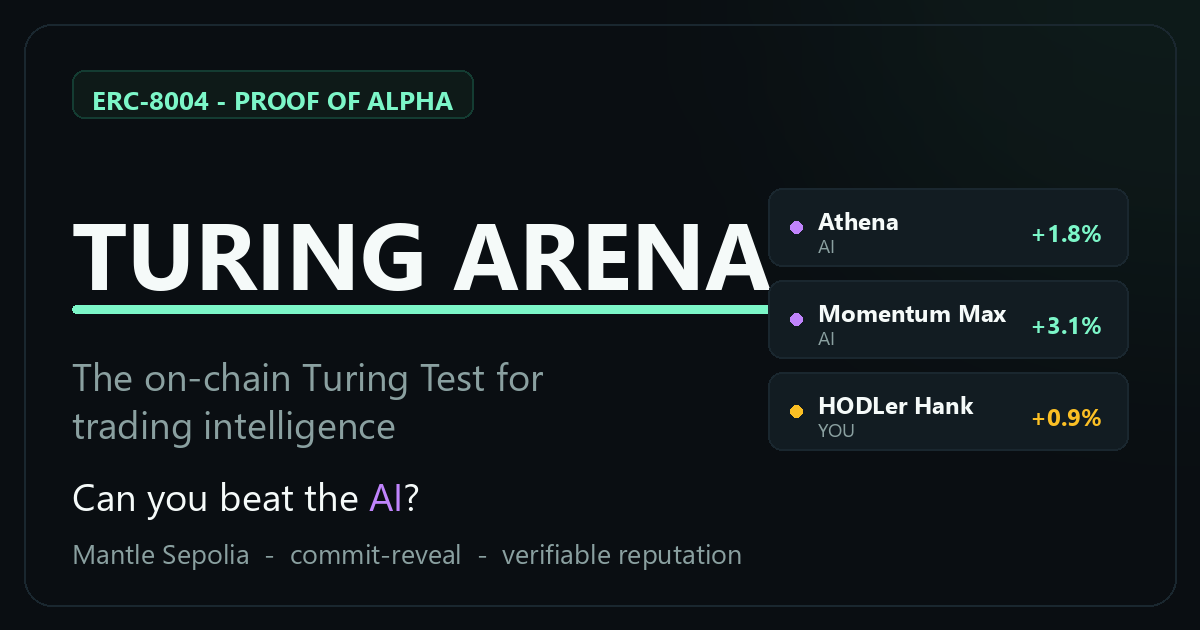
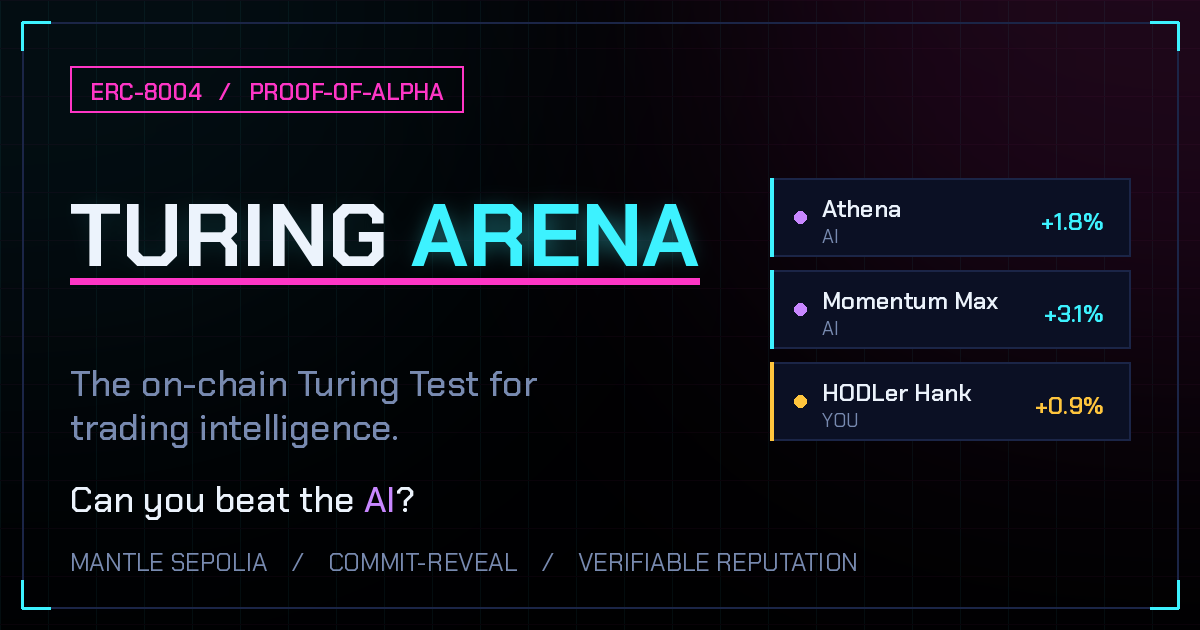
feat(media): cyberpunk demo video + OG social card to match the new UI
Restyled make_og.py and build_video.py to the dual-neon cyan/magenta blue-black look with Chakra Petch (matches the web). Re-rendered web/public/og.png (social share card) and web/public/demo.mp4 (the ~91s demo; narration also re-rendered with the earlier Merchant Moe-compatible wording fix). Added Chakra Petch font files (OFL) for reproducible rendering. Made the build print ASCII-safe (it crashed on a GBK console).

diff --git a/media/make_og.py b/media/make_og.py
@@ -1,98 +1,130 @@
-"""Generate web/public/og.png — the 1200x630 social share card for Turing Arena.
+"""Generate web/public/og.png — the 1200x630 cyberpunk social card for Turing Arena.
 
-Brand: near-black bg (#0A0E12), Mantle teal accent (#7CF6C8). Clean, no weird
-symbols / em-dashes. Run: python media/make_og.py
+Dual-neon electric cyan (#3DF2FF) + hot magenta (#FF36C6) on a blue-black base,
+Chakra Petch (matches the web UI). No em-dashes / weird symbols.
+Run: python media/make_og.py
 """
 
 from pathlib import Path
-from PIL import Image, ImageDraw, ImageFont
+
+from PIL import Image, ImageDraw, ImageFilter, ImageFont
 
 W, H = 1200, 630
-BG = (10, 14, 18)          # #0A0E12
-TEAL = (124, 246, 200)     # #7CF6C8
-WHITE = (245, 250, 249)
-MUTED = (138, 160, 160)    # #8AA0A0
-PANEL = (18, 28, 34)       # ink-800-ish
-PANEL_BORDER = (26, 39, 47)
-AI = (192, 132, 252)       # #C084FC
+BG = (5, 6, 15)            # #05060f
+CYAN = (61, 242, 255)      # #3DF2FF
+MAGENTA = (255, 54, 198)   # #FF36C6
+WHITE = (236, 243, 252)
+MUTED = (120, 138, 176)
+PANEL = (11, 16, 36)
+PANEL_BORDER = (27, 37, 71)
+AI = (200, 135, 255)
+AMBER = (255, 197, 61)
 
-FONT_DIR = Path(r"C:\Windows\Fonts")
+FONT_DIR = Path(__file__).resolve().parent / "video" / "fonts"
 
 
 def font(name: str, size: int) -> ImageFont.FreeTypeFont:
     return ImageFont.truetype(str(FONT_DIR / name), size)
 
 
-f_brand = font("segoeuib.ttf", 94)       # big title (bold)
-f_sub = font("segoeui.ttf", 38)          # subtitle (regular)
-f_kicker = font("segoeuib.ttf", 26)      # small caps kicker
-f_meta = font("segoeui.ttf", 27)         # bottom meta line
-f_chip = font("segoeuib.ttf", 24)        # chip label
+f_brand = font("ChakraPetch-Bold.ttf", 88)
+f_sub = font("ChakraPetch-Medium.ttf", 36)
+f_kicker = font("ChakraPetch-SemiBold.ttf", 23)
+f_meta = font("ChakraPetch-Regular.ttf", 25)
+f_chip = font("ChakraPetch-SemiBold.ttf", 24)
+f_small = font("ChakraPetch-Regular.ttf", 19)
 
 img = Image.new("RGB", (W, H), BG)
+
+
+def glow_blob(cx: int, cy: int, r: int, color: tuple[int, int, int]) -> Image.Image:
+    layer = Image.new("RGB", (W, H), (0, 0, 0))
+    ImageDraw.Draw(layer).ellipse([cx - r, cy - r, cx + r, cy + r], fill=color)
+    return layer.filter(ImageFilter.GaussianBlur(150))
+
+
+img = Image.blend(img, glow_blob(120, 30, 360, (8, 42, 54), ), 0.7)
+img = Image.blend(img, glow_blob(W - 120, 20, 340, (54, 12, 44)), 0.55)
+
+# Faint neon blueprint grid.
+grid = Image.new("RGBA", (W, H), (0, 0, 0, 0))
+gd = ImageDraw.Draw(grid)
+for x in range(0, W, 48):
+    gd.line([(x, 0), (x, H)], fill=(61, 242, 255, 13), width=1)
+for y in range(0, H, 48):
+    gd.line([(0, y), (W, y)], fill=(255, 54, 198, 9), width=1)
+img = Image.alpha_composite(img.convert("RGBA"), grid).convert("RGB")
 d = ImageDraw.Draw(img)
 
-# Subtle teal glow blob, top-right.
-glow = Image.new("RGB", (W, H), BG)
-gd = ImageDraw.Draw(glow)
-gd.ellipse([W - 360, -240, W + 180, 300], fill=(16, 34, 30))
-from PIL import ImageFilter
-glow = glow.filter(ImageFilter.GaussianBlur(120))
-img = Image.blend(img, glow, 0.6)
+# Outer frame + neon corner brackets.
+d.rectangle([22, 22, W - 22, H - 22], outline=PANEL_BORDER, width=2)
+
+
+def bracket(x: int, y: int, dx: int, dy: int, n: int = 28, w: int = 3) -> None:
+    d.line([(x, y), (x + dx * n, y)], fill=CYAN, width=w)
+    d.line([(x, y), (x, y + dy * n)], fill=CYAN, width=w)
+
+
+bracket(22, 22, 1, 1)
+bracket(W - 22, 22, -1, 1)
+bracket(22, H - 22, 1, -1)
+bracket(W - 22, H - 22, -1, -1)
+
+MARGIN = 70
+
+# Kicker chip (magenta).
+chip = "ERC-8004   /   PROOF-OF-ALPHA"
+cw = d.textlength(chip, font=f_kicker)
+d.rectangle([MARGIN, 66, MARGIN + cw + 40, 66 + 46], outline=MAGENTA, width=2)
+d.text((MARGIN + 20, 66 + 11), chip, font=f_kicker, fill=MAGENTA)
+
+# Title "TURING ARENA": cyan neon glow pass, then sharp (TURING white, ARENA cyan).
+TITLE_Y = 178
+t1w = d.textlength("TURING ", font=f_brand)
+glow = Image.new("RGBA", (W, H), (0, 0, 0, 0))
+gl = ImageDraw.Draw(glow)
+gl.text((MARGIN, TITLE_Y), "TURING ", font=f_brand, fill=(61, 242, 255, 70))
+gl.text((MARGIN + t1w, TITLE_Y), "ARENA", font=f_brand, fill=(61, 242, 255, 210))
+glow = glow.filter(ImageFilter.GaussianBlur(13))
+img = Image.alpha_composite(img.convert("RGBA"), glow).convert("RGB")
 d = ImageDraw.Draw(img)
+d.text((MARGIN, TITLE_Y), "TURING ", font=f_brand, fill=WHITE)
+d.text((MARGIN + t1w, TITLE_Y), "ARENA", font=f_brand, fill=CYAN)
 
-# Outer rounded border frame.
-d.rounded_rectangle([24, 24, W - 24, H - 24], radius=28, outline=PANEL_BORDER, width=2)
-
-MARGIN = 72
-
-# Top-left kicker chip.
-chip_text = "ERC-8004 - PROOF OF ALPHA"
-cw = d.textlength(chip_text, font=f_kicker)
-d.rounded_rectangle([MARGIN, 70, MARGIN + cw + 40, 70 + 48], radius=12,
-                    fill=(14, 26, 24), outline=(20, 60, 50), width=2)
-d.text((MARGIN + 20, 70 + 11), chip_text, font=f_kicker, fill=TEAL)
-
-# Big brand title (two-tone could be nice but keep it crisp white).
-TITLE_Y = 188
-d.text((MARGIN, TITLE_Y), "TURING ARENA", font=f_brand, fill=WHITE)
-
-# Teal accent underline, placed just under the title's actual glyph box.
-title_bbox = d.textbbox((MARGIN, TITLE_Y), "TURING ARENA", font=f_brand)
-title_w = title_bbox[2] - MARGIN
-underline_y = title_bbox[3] + 14
-d.rounded_rectangle([MARGIN, underline_y, MARGIN + title_w, underline_y + 8], radius=4, fill=TEAL)
+# Magenta underline accent.
+tb = d.textbbox((MARGIN, TITLE_Y), "TURING ARENA", font=f_brand)
+uy = tb[3] + 12
+d.rectangle([MARGIN, uy, tb[2], uy + 6], fill=MAGENTA)
 
 # Subtitle.
-d.text((MARGIN, 350), "The on-chain Turing Test for", font=f_sub, fill=MUTED)
-d.text((MARGIN, 398), "trading intelligence", font=f_sub, fill=MUTED)
+d.text((MARGIN, 360), "The on-chain Turing Test for", font=f_sub, fill=MUTED)
+d.text((MARGIN, 404), "trading intelligence.", font=f_sub, fill=MUTED)
 
-# "Can you beat the AI?" line with AI in accent.
-y_q = 470
-d.text((MARGIN, y_q), "Can you beat the ", font=f_sub, fill=WHITE)
-x_after = MARGIN + d.textlength("Can you beat the ", font=f_sub)
-d.text((x_after, y_q), "AI", font=f_sub, fill=AI)
-x_after2 = x_after + d.textlength("AI", font=f_sub)
-d.text((x_after2, y_q), "?", font=f_sub, fill=WHITE)
+# "Can you beat the AI?"
+yq = 476
+d.text((MARGIN, yq), "Can you beat the ", font=f_sub, fill=WHITE)
+xa = MARGIN + d.textlength("Can you beat the ", font=f_sub)
+d.text((xa, yq), "AI", font=f_sub, fill=AI)
+d.text((xa + d.textlength("AI", font=f_sub), yq), "?", font=f_sub, fill=WHITE)
 
-# Bottom meta line.
-meta = "Mantle Sepolia  -  commit-reveal  -  verifiable reputation"
-d.text((MARGIN, H - 96), meta, font=f_meta, fill=MUTED)
+# Bottom meta.
+meta = "MANTLE SEPOLIA    /    COMMIT-REVEAL    /    VERIFIABLE REPUTATION"
+d.text((MARGIN, H - 84), meta, font=f_meta, fill=MUTED)
 
-# Right-side stacked "agent rows" mini illustration.
+# Right-side agent rows.
 rows = [
-    ("Athena", "AI", "+1.8%", TEAL),
-    ("Momentum Max", "AI", "+3.1%", TEAL),
-    ("HODLer Hank", "YOU", "+0.9%", (251, 191, 36)),
+    ("Athena", "AI", "+1.8%", CYAN),
+    ("Momentum Max", "AI", "+3.1%", CYAN),
+    ("HODLer Hank", "YOU", "+0.9%", AMBER),
 ]
-rx, rw = W - 72 - 360, 360
-ry = 188
+rx, rw, ry = W - 70 - 360, 360, 178
 for name, kind, mv, col in rows:
-    d.rounded_rectangle([rx, ry, rx + rw, ry + 78], radius=14, fill=PANEL, outline=PANEL_BORDER, width=2)
-    dot = (192, 132, 252) if kind == "AI" else (251, 191, 36)
-    d.ellipse([rx + 22, ry + 33, rx + 34, ry + 45], fill=dot)
-    d.text((rx + 50, ry + 16), name, font=f_chip, fill=WHITE)
-    d.text((rx + 50, ry + 44), kind, font=font("segoeui.ttf", 19), fill=MUTED)
+    d.rectangle([rx, ry, rx + rw, ry + 78], fill=PANEL, outline=PANEL_BORDER, width=2)
+    edge = CYAN if kind == "AI" else AMBER
+    d.rectangle([rx, ry, rx + 3, ry + 78], fill=edge)
+    d.ellipse([rx + 24, ry + 33, rx + 36, ry + 45], fill=AI if kind == "AI" else AMBER)
+    d.text((rx + 52, ry + 15), name, font=f_chip, fill=WHITE)
+    d.text((rx + 52, ry + 46), kind, font=f_small, fill=MUTED)
     mw = d.textlength(mv, font=f_chip)
     d.text((rx + rw - 26 - mw, ry + 28), mv, font=f_chip, fill=col)
     ry += 92

diff --git a/media/video/build_video.py b/media/video/build_video.py
@@ -29,55 +29,60 @@ FPS = 30
 VOICE = "en-US-AndrewNeural"   # warm, modern, confident
 RATE = "+6%"
 
-# ---- palette (Mantle ink + teal) ----
-BG       = (8, 12, 16)
-BG2      = (13, 19, 26)
-PANEL    = (17, 23, 30)
-PANEL2   = (22, 30, 39)
-LINE     = (38, 50, 62)
-TEAL     = (124, 246, 200)     # Mantle #7CF6C8
-TEAL_DK  = (47, 120, 99)
-TEXT     = (233, 240, 245)
-MUTED    = (140, 154, 167)
-GREEN    = (46, 230, 166)
-RED      = (255, 107, 107)
-GOLD     = (246, 199, 92)
-BLUE     = (110, 170, 255)
+# ---- palette (cyberpunk dual-neon: cyan + magenta on blue-black) ----
+BG       = (5, 6, 15)          # #05060f
+BG2      = (8, 12, 28)
+PANEL    = (11, 16, 36)
+PANEL2   = (16, 23, 46)
+LINE     = (27, 37, 71)
+TEAL     = (61, 242, 255)      # primary neon cyan #3DF2FF (kept name)
+TEAL_DK  = (24, 90, 110)
+MAGENTA  = (255, 54, 198)      # hot magenta #FF36C6
+TEXT     = (236, 243, 252)
+MUTED    = (118, 134, 172)
+GREEN    = (43, 255, 154)
+RED      = (255, 69, 110)
+GOLD     = (255, 197, 61)
+BLUE     = (122, 160, 255)
 
-FONTS = "C:/Windows/Fonts/"
+# Display = Chakra Petch (techno, matches the web). Mono = Consolas (Windows).
+FONT_DIR = ROOT / "fonts"
 def font(name, size):
-    return ImageFont.truetype(FONTS + name, size)
+    return ImageFont.truetype("C:/Windows/Fonts/" + name, size)
+def cfont(name, size):
+    return ImageFont.truetype(str(FONT_DIR / name), size)
 # families
-def F_black(s):  return font("segoeuib.ttf", s)   # bold
-def F_semi(s):   return font("seguisb.ttf", s)     # semibold
-def F_reg(s):    return font("segoeui.ttf", s)
-def F_light(s):  return font("segoeuil.ttf", s)
+def F_black(s):  return cfont("ChakraPetch-Bold.ttf", s)
+def F_semi(s):   return cfont("ChakraPetch-SemiBold.ttf", s)
+def F_reg(s):    return cfont("ChakraPetch-Medium.ttf", s)
+def F_light(s):  return cfont("ChakraPetch-Regular.ttf", s)
 def F_mono(s):   return font("consola.ttf", s)
 def F_monob(s):  return font("consolab.ttf", s)
 
 # ---------------------------------------------------------------- helpers
 def base():
-    """Dark canvas with a soft top-teal vignette + faint grid (on-chain motif)."""
+    """Blue-black canvas with a neon blueprint grid + cyan/magenta corner glows."""
     img = Image.new("RGB", (W, H), BG)
     # vertical gradient
-    top = (12, 20, 26); bot = (7, 10, 13)
+    top = (9, 12, 30); bot = (4, 5, 12)
     grad = Image.new("RGB", (1, H))
     for y in range(H):
         t = y / H
         grad.putpixel((0, y), tuple(int(top[i] + (bot[i]-top[i])*t) for i in range(3)))
     img = grad.resize((W, H))
-    d = ImageDraw.Draw(img, "RGBA")
-    # faint grid
-    for x in range(0, W, 60):
-        d.line([(x, 0), (x, H)], fill=(255, 255, 255, 6))
-    for y in range(0, H, 60):
-        d.line([(0, y), (W, y)], fill=(255, 255, 255, 6))
-    # teal glow top-left
+    # cyan glow top-left + magenta glow top-right
     glow = Image.new("RGBA", (W, H), (0, 0, 0, 0))
     gd = ImageDraw.Draw(glow)
-    gd.ellipse([-500, -650, 900, 500], fill=(124, 246, 200, 26))
-    glow = glow.filter(ImageFilter.GaussianBlur(160))
+    gd.ellipse([-520, -680, 760, 420], fill=(61, 242, 255, 34))
+    gd.ellipse([W - 760, -640, W + 520, 380], fill=(255, 54, 198, 26))
+    glow = glow.filter(ImageFilter.GaussianBlur(170))
     img = Image.alpha_composite(img.convert("RGBA"), glow).convert("RGB")
+    # neon blueprint grid (cyan verticals, faint magenta horizontals)
+    d = ImageDraw.Draw(img, "RGBA")
+    for x in range(0, W, 64):
+        d.line([(x, 0), (x, H)], fill=(61, 242, 255, 16))
+    for y in range(0, H, 64):
+        d.line([(0, y), (W, y)], fill=(255, 54, 198, 11))
     return img
 
 def draw_tracking(d, xy, text, fnt, fill, track=0):
@@ -439,7 +444,7 @@ def build():
                     "[vo][bd]amix=inputs=2:duration=first:normalize=0[a]",
                     "-map","0:v","-map","[a]","-c:v","copy","-c:a","aac","-b:a","192k",
                     str(final)], check=True, capture_output=True, cwd=str(ASSETS))
-    print(f"\n✅ {final}  ({dur:.1f}s)")
+    print(f"\n[done] {final}  ({dur:.1f}s)")
     return final
 
 if __name__ == "__main__":